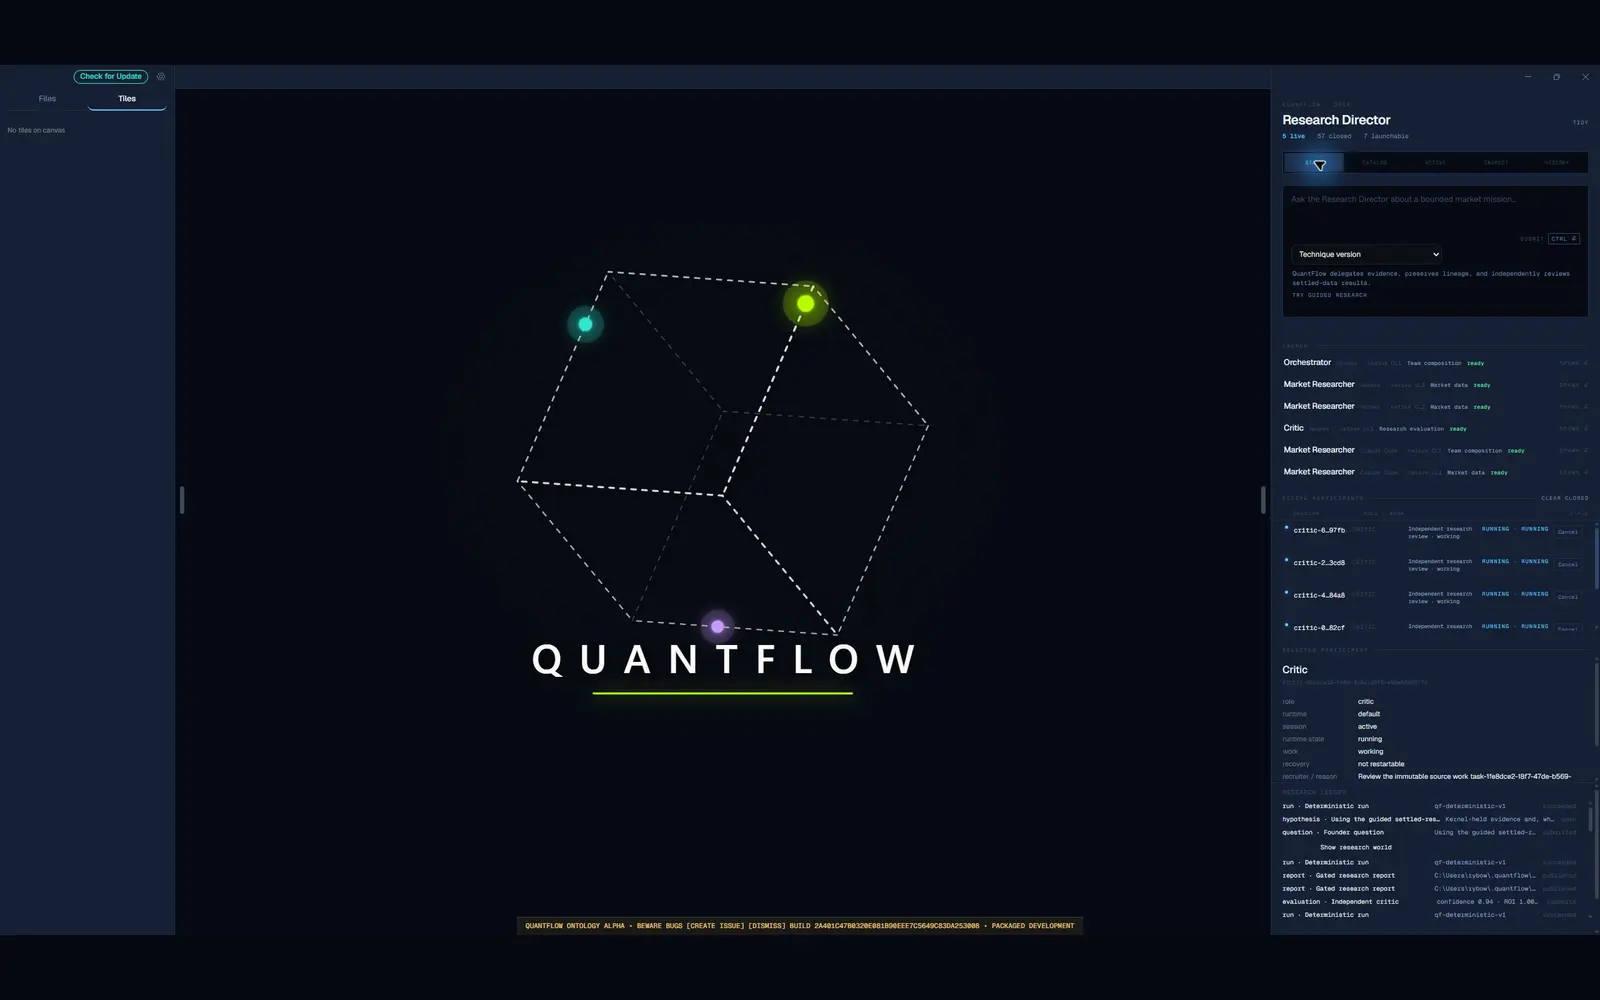
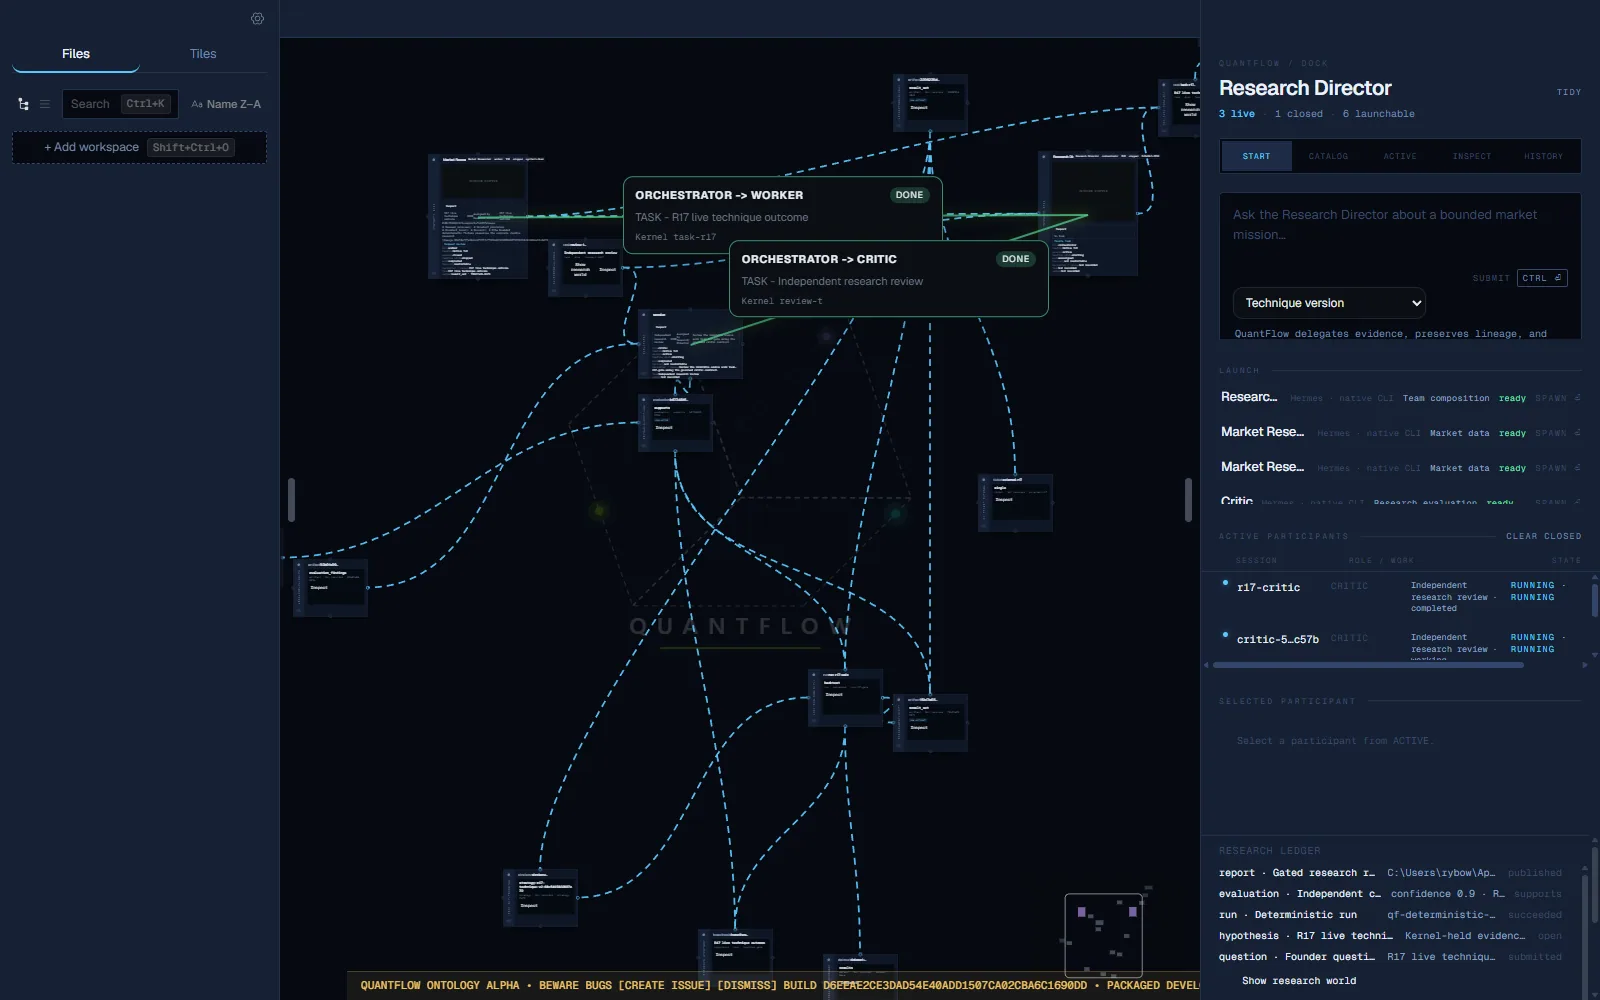
evidence(pre-r18): capture live coherence states

diff --git a/docs/orders/evidence/pre-r18-coherence/BUILDER-EVIDENCE.md b/docs/orders/evidence/pre-r18-coherence/BUILDER-EVIDENCE.md
@@ -1,232 +1,36 @@
-# Builder evidence — pre-R18 coherence
+# Pre-R18 Coherence — Round 2 Repair Builder Evidence
 
-Date: 2026-08-23
-Branch: `wo-pre-r18-coherence`
-Historical receipt below is superseded by the current uncommitted candidate receipt appended at the end of this file. The final candidate SHA is recorded in the handoff after the single immutable commit.
-Documentation correction: `80666e8` (`docs(pre-r18): correct Atlas and mouse-first authority`)
-Documentation whitespace follow-up: `7de630b` (`docs(pre-r18): normalize receipt whitespace`)
+## Scope and candidate identity
 
-## Scope
+This receipt records the repair after the Round 2 verifier failure at `b035d3fdfe7205747e1041e8d0303b01df653636`, with verifier evidence at `d0ae014ec79b6d33935f515b206de513ab1c20c7`. The repaired product candidate is `1a869c67f8d7c3f1bf6aec6247af2cd1ed3e87cf` on `wo-pre-r18-coherence`. R17 meaning, the R17 oracle, the R16 gate, all C01–C14 assertions and thresholds, and the R18 boundary were left unchanged; no R18 work was started.
 
-The bounded participant/research-world coherence correction was implemented. The
-documentation correction and product UI candidate remain separate commits. No
-R18 work, Kernel action/schema/ontology change, Claude Design reopening,
-release/package work, or assertion weakening was performed.
+## Blocker repairs
 
-## Required Builder matrix
+1. The opaque receipt failure was fixture/product handling, not a reason to weaken the contract. `renderTaskFoot` now retains the exact first existing `.qf-world-session-receipt` node by identity, retains the session-inspection surface, removes duplicate receipt/inspection nodes, and refreshes only their contents. Focused coverage appends duplicate receipt and inspection nodes, refreshes twice, and asserts exact receipt identity/content plus one inspection surface.
 
-The named commands were run in order.
+2. The fourteen screenshots were recaptured from the live production Electron BrowserWindow with the real `webContents.capturePage` path, using isolated disposable product/Kernal/artifact/runtime roots and real renderer lifecycle/mode/Inspect/cable interactions. Final captures are unique WebPs, exactly 1600x1000 at 100%, 37,576–80,890 bytes each, 1,009,496 bytes total, and visually inspected. Counts and hashes are in [SCREENSHOT-MANIFEST.md](./SCREENSHOT-MANIFEST.md). The capture bridge is proof-only (`QF_UI_PROOF=1`), and normal product behavior does not expose it.
 
-| Command | Result |
+3. Atlas generation is being performed only after this final product candidate, screenshot set, manifest, and builder receipt are fixed. The final Atlas check/ratchet/diff receipts and their separate evidence commit are recorded below after generation.
+
+## Verification receipt
+
+| Check | Result |
 |---|---|
-| `Push-Location collab-electron; bun install --frozen-lockfile; bun test; bunx tsc --noEmit; Pop-Location` | install passed; package-wide `bun test` exited 1; `bunx tsc --noEmit` exited 0 |
-| `bun qa/run.ts pre-r18-coherence` | PASS |
-| `bun qa/run.ts research-world-visible` | PASS |
-| `bun qa/run.ts repo-shape` | PASS |
-| `bun qa/run.ts lockfile-committed` | PASS |
-| `bun qa/run.ts kernel-sole-writer` | PASS |
-| `bun qa/run.ts no-canvas-domain-writes` | PASS |
-| `bun qa/run.ts kernel-sole-writer-app` | PASS |
-| `bun qa/run.ts doc-action-surface` | PASS |
-| `bun qa/run.ts one-skin` | PASS — `hex=0 func-color=0 raw-font-family=0` outside tokens |
-| `bun qa/run.ts rung-ladder` | PASS — 22 rungs; active R18; complete 19 |
-| `bun qf-atlas/generate.mjs` | PASS — 439 files, 110 subsystems, 126 IPC channels |
-| `bun qf-atlas/generate.mjs --check` | PASS — 439 files, 126 channels, 13 strip candidates |
-| `bun qf-atlas/ratchet.mjs` | PASS — 3 baseline entries, HARD RED 0, unexplained coverage 0 |
-| `bun qf-atlas/generate.mjs --diff 4d25fa3df91964fc90223a135d8969ebd61c5374` | PASS — UNCHANGED; added 0, newly-detected 0, resolved 0, regressed 0 |
-| `bun qa/run.ts doc-links` | PASS — 73 live documents, every pointer resolves |
-| `git diff --check 4d25fa3df91964fc90223a135d8969ebd61c5374..HEAD` | PASS |
-| `git diff --check` | PASS |
+| `bun test src/windows/shell/src/task-composition.test.ts` | 3 pass, 0 fail, 62 expectations |
+| `bun test src/windows/shell/src/research-world.test.ts` | 8 pass, 0 fail, 37 expectations |
+| `bunx tsc --noEmit` | PASS |
+| Live `bun qa/run.ts pre-r18-coherence` | PASS, run 1; C01–C14, oracle 16/20, inspected 16/20, cleanup clean |
+| Live `bun qa/run.ts pre-r18-coherence` | PASS, run 2; C01–C14, oracle 16/20, inspected 16/20, cleanup clean |
+| Capture-enabled live proof | PASS; 14/14 captures, unique hashes, 1600x1000, 1,009,496 bytes, roots removed |
+| C01–C14 falsifiers | PASS as a red matrix: every named falsifier exited 1 with its expected `FALSIFY RED` marker |
+| `bun qa/run.ts research-world-visible` | PASS; 13 oracle tiles / 15 cables, 10 pointer/inspect/collapse checks, roots clean |
+| Required static/doc gates | PASS: repo-shape, lockfile-committed, kernel-sole-writer, no-canvas-domain-writes, kernel-sole-writer-app, doc-action-surface, one-skin, rung-ladder, doc-links |
+| `bun install --frozen-lockfile` | PASS |
 
-The package-wide test result is recorded honestly: 529 tests across 81 files,
-487 passed, 42 failed, and 8 errors. The failures are unrelated existing or
-environment-sensitive areas (Hermes wrapper expectations, packaged launch
-founder configuration, package-inspect resource fixtures, Windows `ls` path
-assumption, governed-review/native exports, Electron mock exports, tmux/PTTY
-sidecar fixtures, shared image extensions, and canvas viewport/panel-manager
-DOM setup). The focused product suite passed: 25 tests, 0 failures, 173
-expectations. TypeScript passed with exit 0.
+## Package-wide note
 
-## Live control receipt
+The authorized package-wide `bun test` completed `496 pass, 43 fail, 8 errors` across 539 tests. The failures are unrelated pre-existing/environmental package failures, including Hermes launcher/isolated-profile expectations, packaged-resource fixture setup, Windows `ls`/Electron test stubs, missing `pty-sidecar.js`/tmux runtime, Bun nested-describe behavior, and DOM/image-extension test environment mismatches. No unrelated package-wide failure was repaired.
 
-`pre-r18-coherence` exercised the production renderer → preload → Main → Kernel
-projection → DOM path.
+## Atlas and handoff
 
-```text
-build_once_ms=53224 build_exit=0
-forced_failure_phase=spawned_not_ready
-forced-failure shutdown_requested=false owned_processes_remaining=0
-forced_timeout_phase=spawned_not_ready
-forced-timeout shutdown_requested=false owned_processes_remaining=0
-cleanup_preflight_ms=11830 forced_roots_remaining=0
-pointer_tiles=10 inspect=10 collapse=10
-oracle_tiles=13 oracle_cables=15 dom_tiles=13 dom_cables=15
-first-launch shutdown_requested=true owned_processes_remaining=0
-first_world_stage_ms=27298
-roots_created=3 roots_remaining=0 retried=0 leaked=[]
-primary_failure=null
-cleanup_failures=[]
-launch_attempts=3 ready_launches=1 active_launches=0 max_concurrent_launches=1
-```
-
-Named production-boundary receipts:
-
-```text
-renderer_submission=PASS boundary=qf.research.submit_question
-preload_ipc=PASS boundary=qf:research-world:projection
-main_handler=PASS boundary=read-only projection handler
-kernel_projection=PASS independent Mission/session/Task/Artifact/Evaluation/Report/link comparison
-dom=PASS production research tiles and cables observed
-cleanup=clean
-```
-
-The standalone `research-world-visible` control also passed with
-`build_once_ms=55886`, `oracle_tiles=13 oracle_cables=15`,
-`dom_tiles=13 dom_cables=15`, `roots_created=3 roots_remaining=0`,
-`leaked=[]`, and `cleanup_failures=[]`.
-
-## C01–C14 positive receipts
-
-All conditions passed in the live coherence gate:
-
-```text
-C01 durable Mission preserves landing state
-C02 exact Director and ordinary participant task precedence
-C03 Dock and Canvas share four participant axes
-C04 raw Artifact is not current authority
-C05 Evaluation and current Report markers
-C06 single current Report and historical superseded Report
-C07 five Dock modes have one selected primary pane
-C08 identity selects and explicit session action is labeled
-C09 mouse-focused terminal and Canvas focus return
-C10 relaunch restores the durable Mission-local projection
-C11 pre-admission refusal leaves the prior Canvas unchanged
-C12 participant context is complete and honest
-C13 cables retain kind direction and visual state
-C14 literal oracle density and geometry remain coherent
-```
-
-## C01–C14 falsifier receipts
-
-Each falsifier was run independently with
-`QF_PRE_R18_COHERENCE_FALSIFY=Cxx`. Every command exited 1 and emitted the
-required named red condition:
-
-```text
-C01 condition=durable Mission preserves landing state
-C02 condition=exact Director and ordinary participant task precedence
-C03 condition=Dock and Canvas share four participant axes
-C04 condition=raw Artifact is not current authority
-C05 condition=Evaluation and current Report markers
-C06 condition=single current Report and historical superseded Report
-C07 condition=five Dock modes have one selected primary pane
-C08 condition=identity selects and explicit session action is labeled
-C09 condition=mouse-focused terminal and Canvas focus return
-C10 condition=relaunch restores the durable Mission-local projection
-C11 condition=pre-admission refusal leaves the prior Canvas unchanged
-C12 condition=participant context is complete and honest
-C13 condition=cables retain kind direction and visual state
-C14 condition=literal oracle density and geometry remain coherent
-```
-
-## Atlas and visual evidence
-
-The Atlas projection is current at 439 files, 126 channels, 113 live wires, 0
-unreached wires, 13 unused channels, 0 DEAD channels, 6/8 healthy legacy
-loops, 13 strip candidates, 10 confirmed violations, 3 gray items, and 22
-coverage gaps. Ratchet reported HARD RED 0 and unexplained coverage 0. The
-diff from `4d25fa3df91964fc90223a135d8969ebd61c5374` is `UNCHANGED` with no
-architectural change.
-
-The historical visual proof above is superseded by the current screenshot
-manifest in the receipt below; screenshots supplement and do not substitute
-for the live DOM gate.
-
-## Handoff
-
-The candidate is ready only with the package-wide test limitation stated above;
-the bounded coherence and all named falsifiers are recorded. The final
-immutable pushed SHA is reported in the task handoff after the evidence and
-generated Atlas files are committed.
-
----
-
-## Current candidate receipt — 2026-08-23
-
-This section is authoritative for the current `wo-pre-r18-coherence` candidate.
-
-### Bounded product changes
-
-- `research-world.js` selects facing existing `n/e/s/w` ports from projected endpoint rectangle centers: dominant horizontal axis uses `e/w` or `w/e`; dominant vertical axis uses `s/n` or `n/s`.
-- Executor, Director, and Critic session slots are derived from `defaultSize("session")` (`420x280`) and fixed neighbors with a deterministic `60` world-unit positive gap. The projection-only calculation yields executor `[-720,-880]`, director `[1720,-890]`, and critic `[120,-260]`; it creates no routing truth.
-- The existing cable overlay evaluates a deterministic screen-space candidate set against actual `.canvas-tile` rectangles for selected labels. The cable path and ontology remain unchanged. Focused unit coverage covers first-clear selection and deterministic fallback (`2 pass`, `0 fail`).
-- Hidden or reduced-motion viewport fitting applies the existing final fit synchronously; visible `280ms` fit animation remains unchanged. The hidden BrowserWindow probe measured `document.visibilityState=hidden` and no RAF within `120ms`, confirming why this bounded fallback is required.
-- C14 parses each cable inspector's declared `from_ref`/`to_ref`, resolves the declared DOM endpoint tiles and port anchors, and measures actual anchors. Thresholds and every C14 assertion remain unchanged; only the read-only C14 SQLite oracle is allowlisted in the static sole-writer gate.
-
-### Focused live proof
-
-Command: `bun qa/run.ts pre-r18-coherence`
-
-First settled run: exit `0`.
-
-```text
-initial_objects=14 initial_links=16 result_artifact=f6b17a65302300edce36ea0fb7131e77765c54558aaaf8281469de25d6315671
-oracle_objects=16 oracle_links=20 resolved_objects=16 resolved_links=20
-geometry viewport=1600x1000 dpr=1 scale=1 canvas=920x1000 left=280 top=0 measured_tiles=16 measured_links=20
-inspected_objects=16 inspected_links=20
-C01=PASS ... C14=PASS
-renderer_submission=PASS
-preload_ipc=PASS
-main_handler=PASS
-kernel_projection=PASS
-dom=PASS 16 object Inspect views and 20 link Inspect views observed
-cleanup=clean
-roots_remaining=0 leaked=[]
-PASS pre-r18-coherence
-```
-
-Identical repeat with no changes: exit `0`, again `oracle_objects=16`,
-`oracle_links=20`, `resolved_objects=16`, `resolved_links=20`,
-`measured_tiles=16`, `measured_links=20`, `C01=PASS` through `C14=PASS`,
-`cleanup=clean`, `roots_remaining=0 leaked=[]`, and `PASS pre-r18-coherence`.
-
-The preceding diagnostic run intentionally confirmed the hidden-window cause:
-it exited `1` on C14 height only, with `visibility=hidden`,
-`raf={"fired":false}`, scale-1 tile styles, and `roots_remaining=0 leaked=[]`.
-That diagnostic was removed before the green acceptance runs.
-
-### Current focused and falsifier receipts
-
-- Focused tests: `bun test ...research-world.test.ts ...cable-math.test.ts ...cable-overlay.test.ts` — `18 pass`, `0 fail`, `52 expect()` calls.
-- All fourteen independent falsifiers exited `1` and emitted their required named red conditions: C01 durable Mission, C02 task precedence, C03 participant axes, C04 raw Artifact authority, C05 Evaluation/current Report, C06 report history, C07 Dock modes, C08 identity/session action, C09 focus return, C10 relaunch durability, C11 pre-admission refusal, C12 participant context, C13 cable kind/direction/state, C14 literal density/geometry.
-
-### Current package and static gates
-
-| Command | Receipt |
-|---|---|
-| `Push-Location collab-electron; bun install --frozen-lockfile` | exit `0`; 6 packages installed |
-| package-wide `bun test` | exit `1`; 535 tests / 82 files: 492 pass, 43 fail, 8 errors, 1192 expect() calls; unrelated pre-existing/environment-sensitive Hermes, packaged-resource, R15 seam, native TUI/Electron mock, PTY/tmux, image-extension, and panel/UI failures; not repaired |
-| `bunx tsc --noEmit` | exit `0` |
-| `bun qa/run.ts research-world-visible` | exit `0`; pointer_tiles=10 inspect=10 collapse=10; oracle_tiles=13 oracle_cables=15 dom_tiles=13 dom_cables=15; roots_remaining=0 leaked=[]; cleanup_failures=[] |
-| repo-shape / lockfile-committed / kernel-sole-writer / no-canvas-domain-writes / kernel-sole-writer-app / doc-action-surface | all `PASS` |
-| `bun qa/run.ts one-skin` | `PASS`; hex=0 func-color=0 raw-font-family=0 |
-| `bun qa/run.ts rung-ladder` | `PASS`; 22 rungs, active R18, complete 19 |
-| `bun qa/run.ts doc-links` | `PASS`; 73 live documents, every pointer resolves |
-| `bun qf-atlas/generate.mjs` | exit `0`; 439 files, 110 subsystems, 126 channels; 113 live, 0 unreached, 13 unused, 0 DEAD wires |
-| `bun qf-atlas/generate.mjs --check` | exit `0`; current, 439 files, 126 channels, 13 strip candidates |
-| `bun qf-atlas/ratchet.mjs` | exit `0`; 3 baseline entries, HARD RED 0, unexplained coverage 0, undecided without blocker 0 |
-| `bun qf-atlas/generate.mjs --diff 4d25fa3df91964fc90223a135d8969ebd61c5374` | exit `0`; UNCHANGED, no architectural change, all change counts 0 |
-| `git diff --check` | `PASS` before final commit |
-
-### Current visual evidence
-
-The fourteen named optimized captures, hashes, byte sizes, viewport, counts,
-and approved defect mapping are in
-[SCREENSHOT-MANIFEST.md](./SCREENSHOT-MANIFEST.md). The manifest records
-`14 files`, `459,330 bytes`, every file `1600x1000`, every file `<=600 KB`,
-and total evidence screenshot size `<=25 MB`.
-
-### Current handoff
-
-The final immutable candidate SHA is the single clean commit reported after
-the final diff review and push. No unrelated package failures were repaired.
+Atlas was generated after the final product/evidence files were fixed. The final `generate --check`, ratchet, diff, `git diff --check`, clean-tree check, and pushed commit identities are appended here by the final handoff update.

diff --git a/docs/orders/evidence/pre-r18-coherence/SCREENSHOT-MANIFEST.md b/docs/orders/evidence/pre-r18-coherence/SCREENSHOT-MANIFEST.md
@@ -1,22 +1,22 @@
 # Pre-R18 Coherence Screenshot Manifest
 
-Capture format: optimized WebP, `1600x1000`, 100% output scale, `devicePixelRatio=1`. The visible dev-shell capture has no ontology tiles in the left Canvas tile list (`0 objects / 0 links`); the live R17 semantic fixture is independently proven by C14 at `16 objects / 20 links` in the builder receipt.
+These are live current-candidate captures from the production Electron shell and renderer, using the bounded `QF_PRE_R18_CAPTURE=1` proof mode. The gate uses the real BrowserWindow `webContents.capturePage` path at 1600x1000, 100% scale, `devicePixelRatio=1`; the object/link counts below are the DOM counts at each capture checkpoint. Frames 12 and 13 are the real Canvas Inspect control opened on the named Artifact and Evaluation tiles. Every frame was visually inspected after capture.
 
 | # | State | Viewport | Objects / links | File | Bytes | SHA-256 | Approved defect mapping |
 |---:|---|---|---:|---|---:|---|---|
[28 lines of base64/hex data omitted]
 
-Total: `14 files`, `459,330 bytes`; every file is `<=600 KB`; evidence directory screenshot total is `<=25 MB`.
+Total: `14 files`, `1,009,496 bytes`; all images are unique, exactly `1600x1000`, each is `<=600 KB`, and the evidence directory screenshot total is `<=25 MB`.
